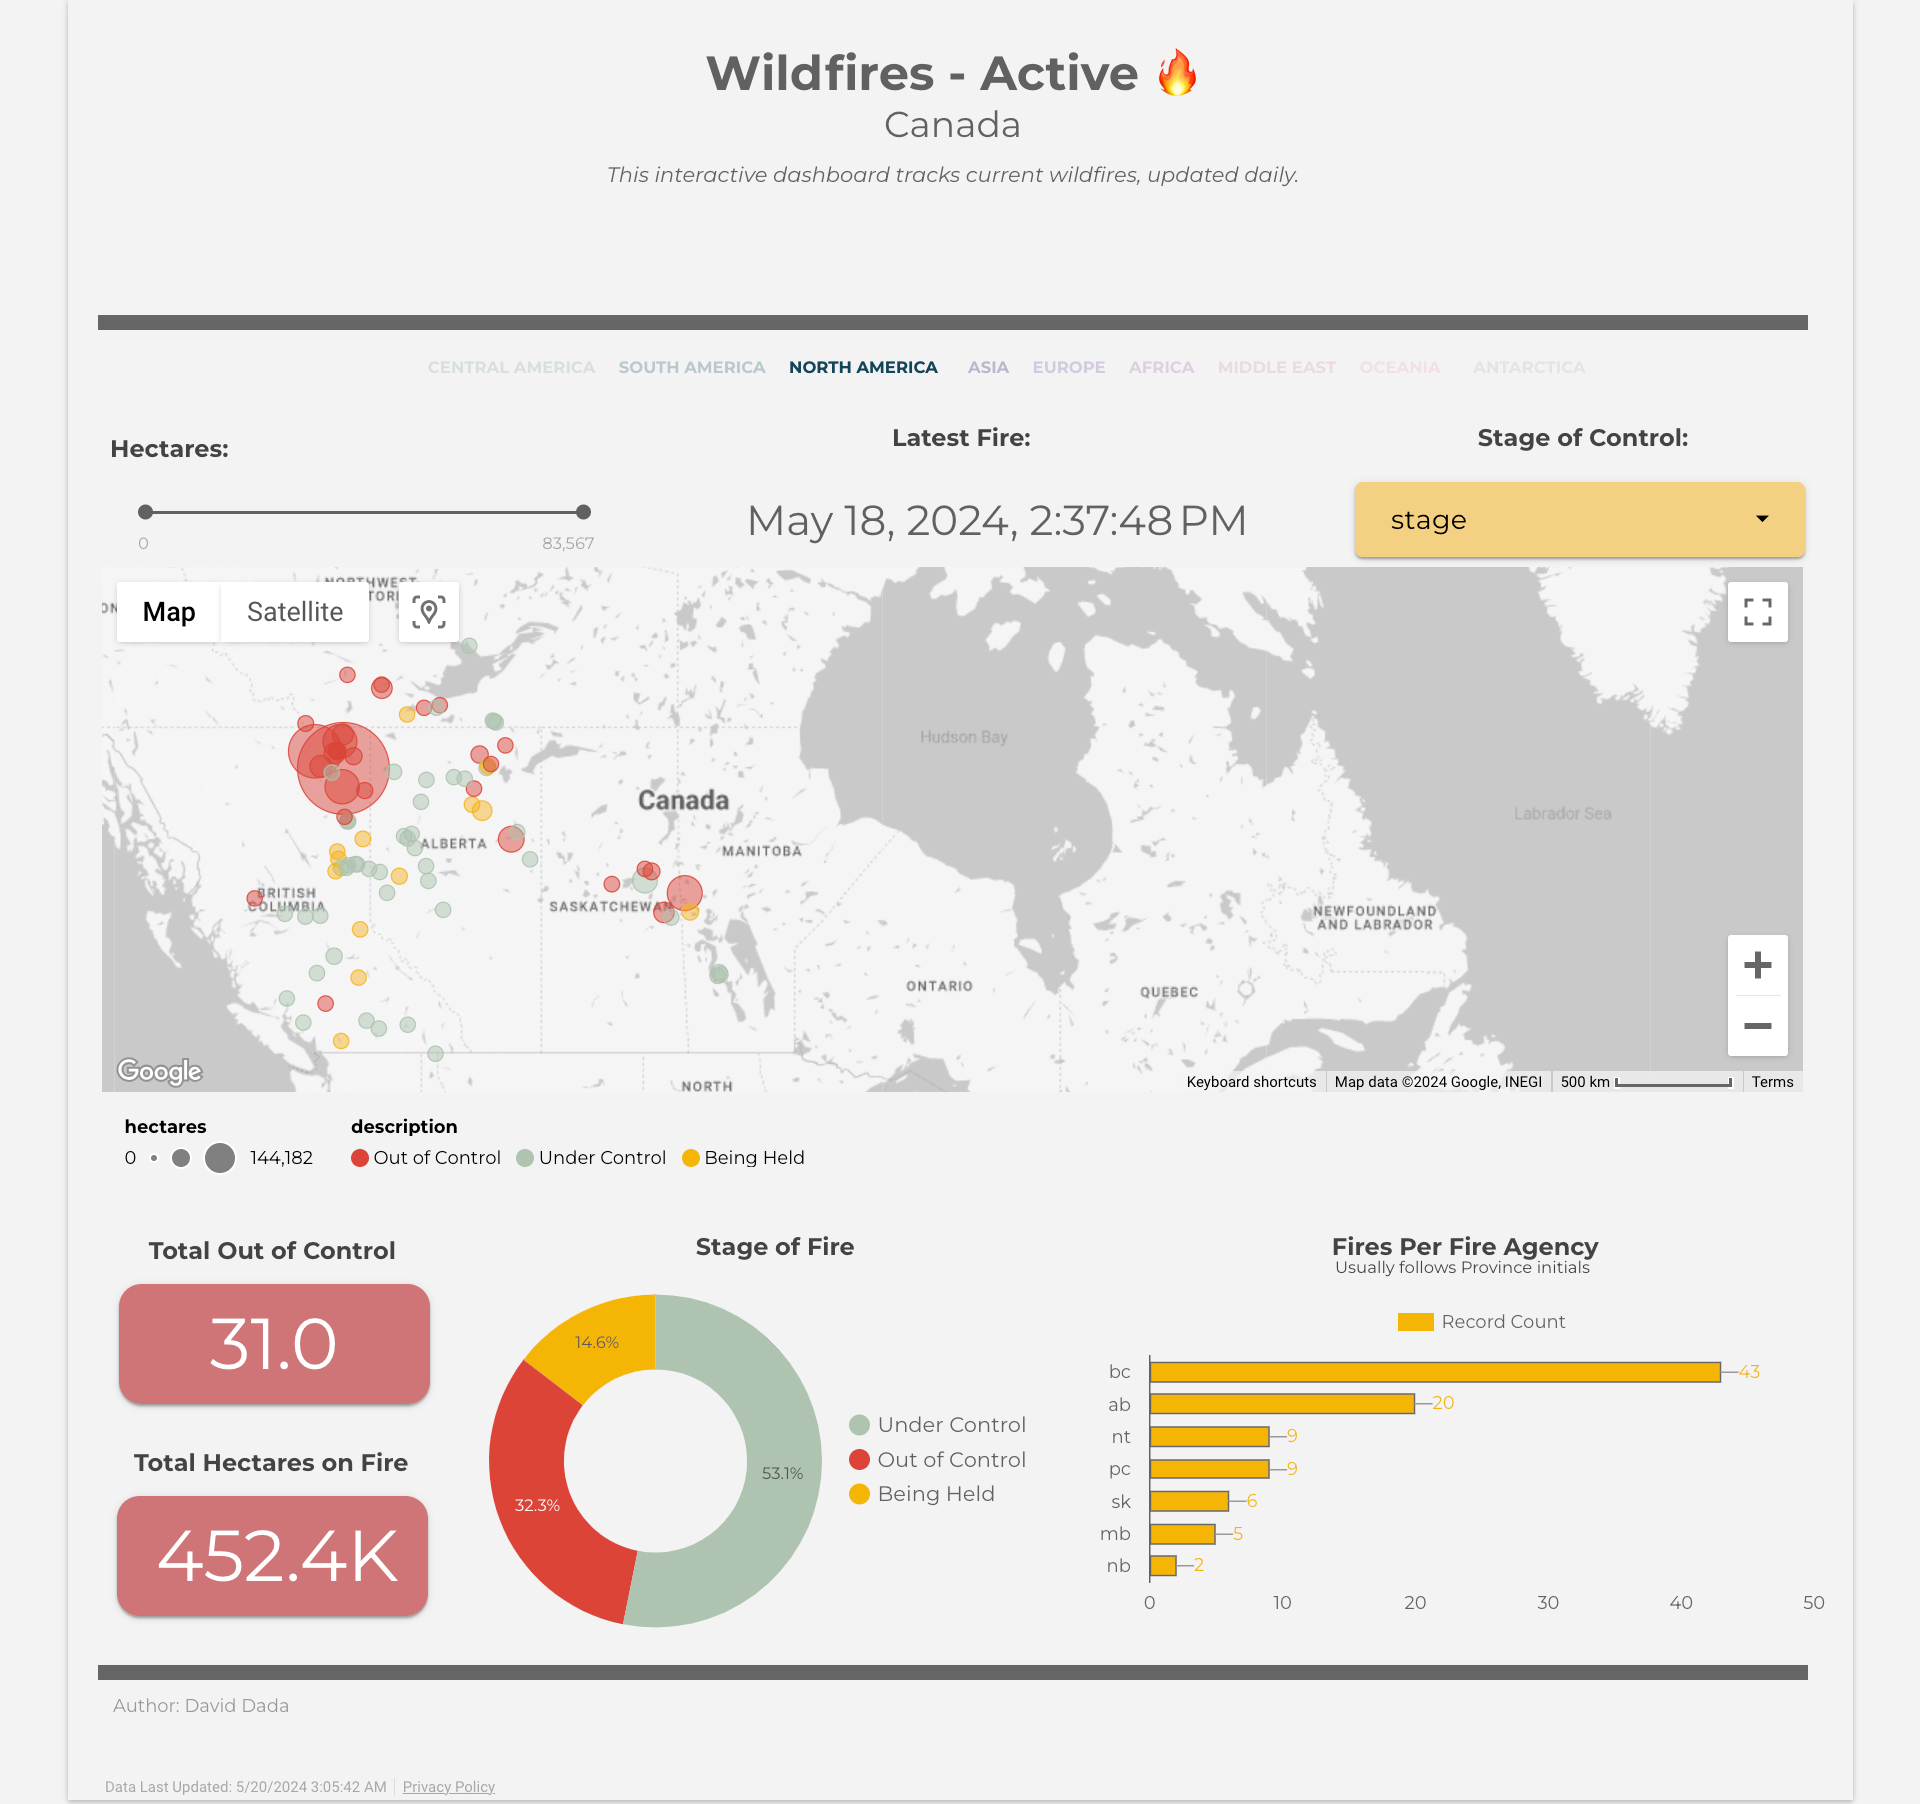
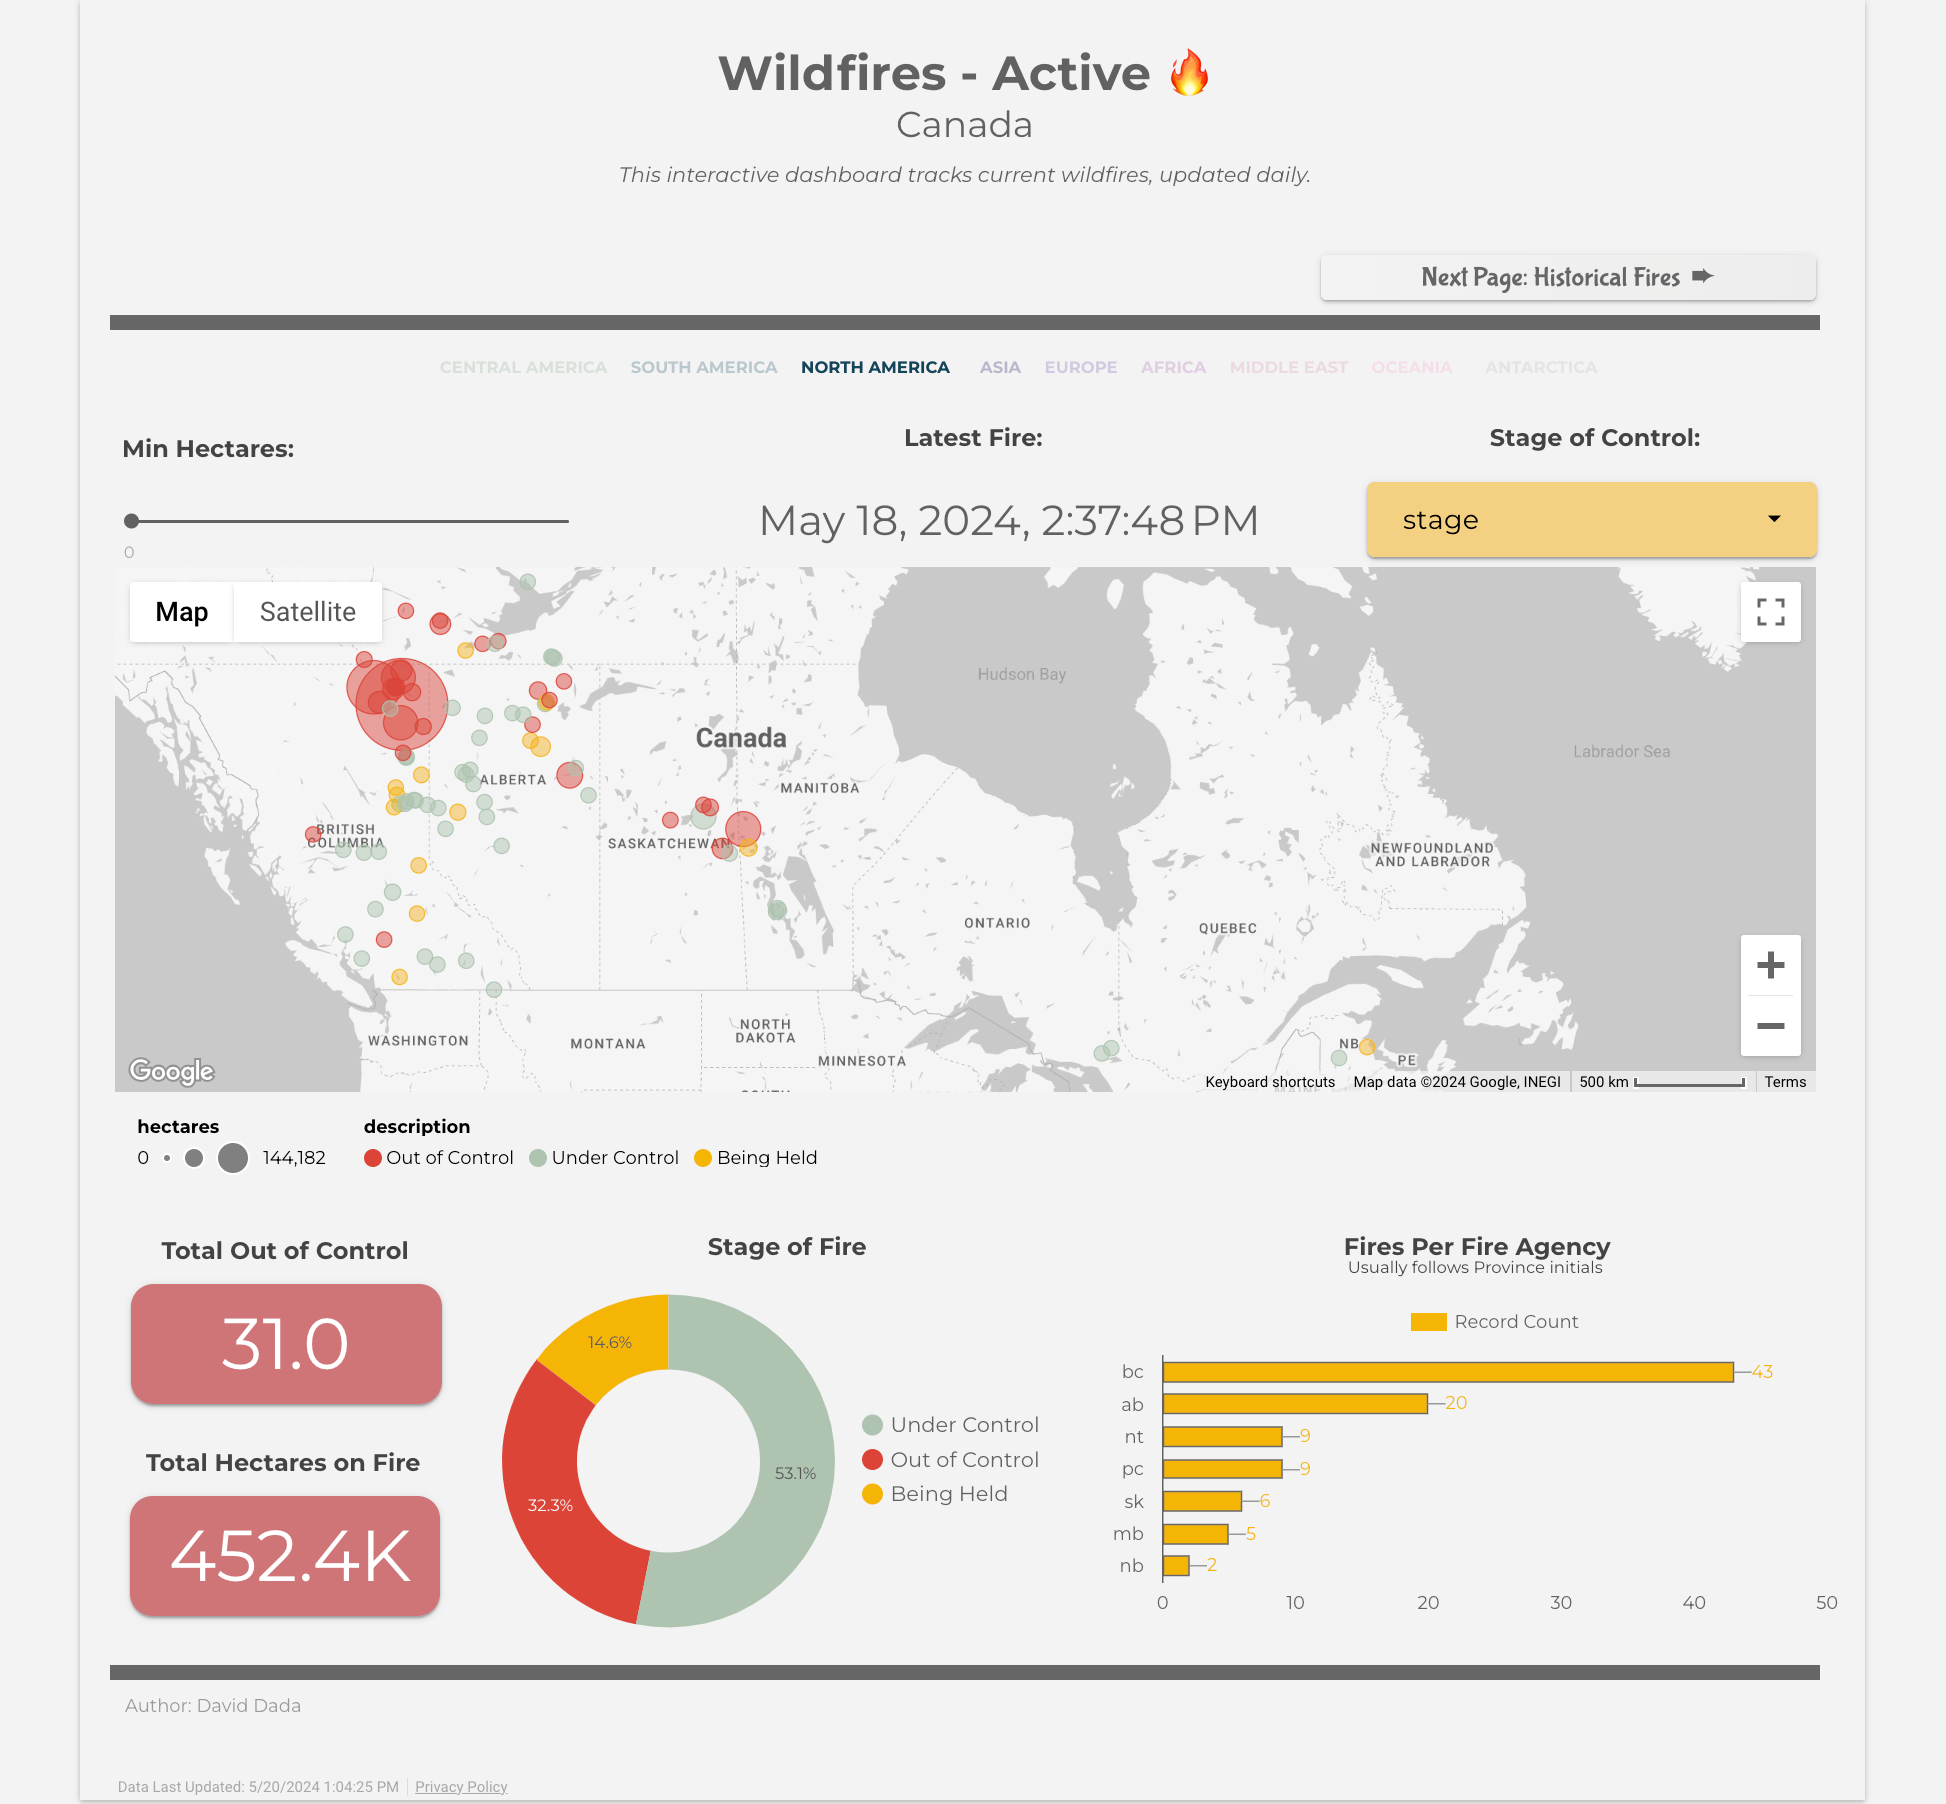
visualization with page navigation

diff --git a/readme.md b/readme.md
@@ -105,7 +105,7 @@ Using LookerStudio to have an interactive dashboard with the following filters.
   * A lot of fires happen each year. which means too many data points to interpret a single graph
 * ##### Historic fires by class size of fire
   * Users would be further break down historic fires
-* ##### Active fires by hectares
+* ##### Active fires by min hectares
   * Users might want to filter out smaller fires
 * ##### Active fires by stage of control
   * The current concern might be to quickly drill down to out of control fires
